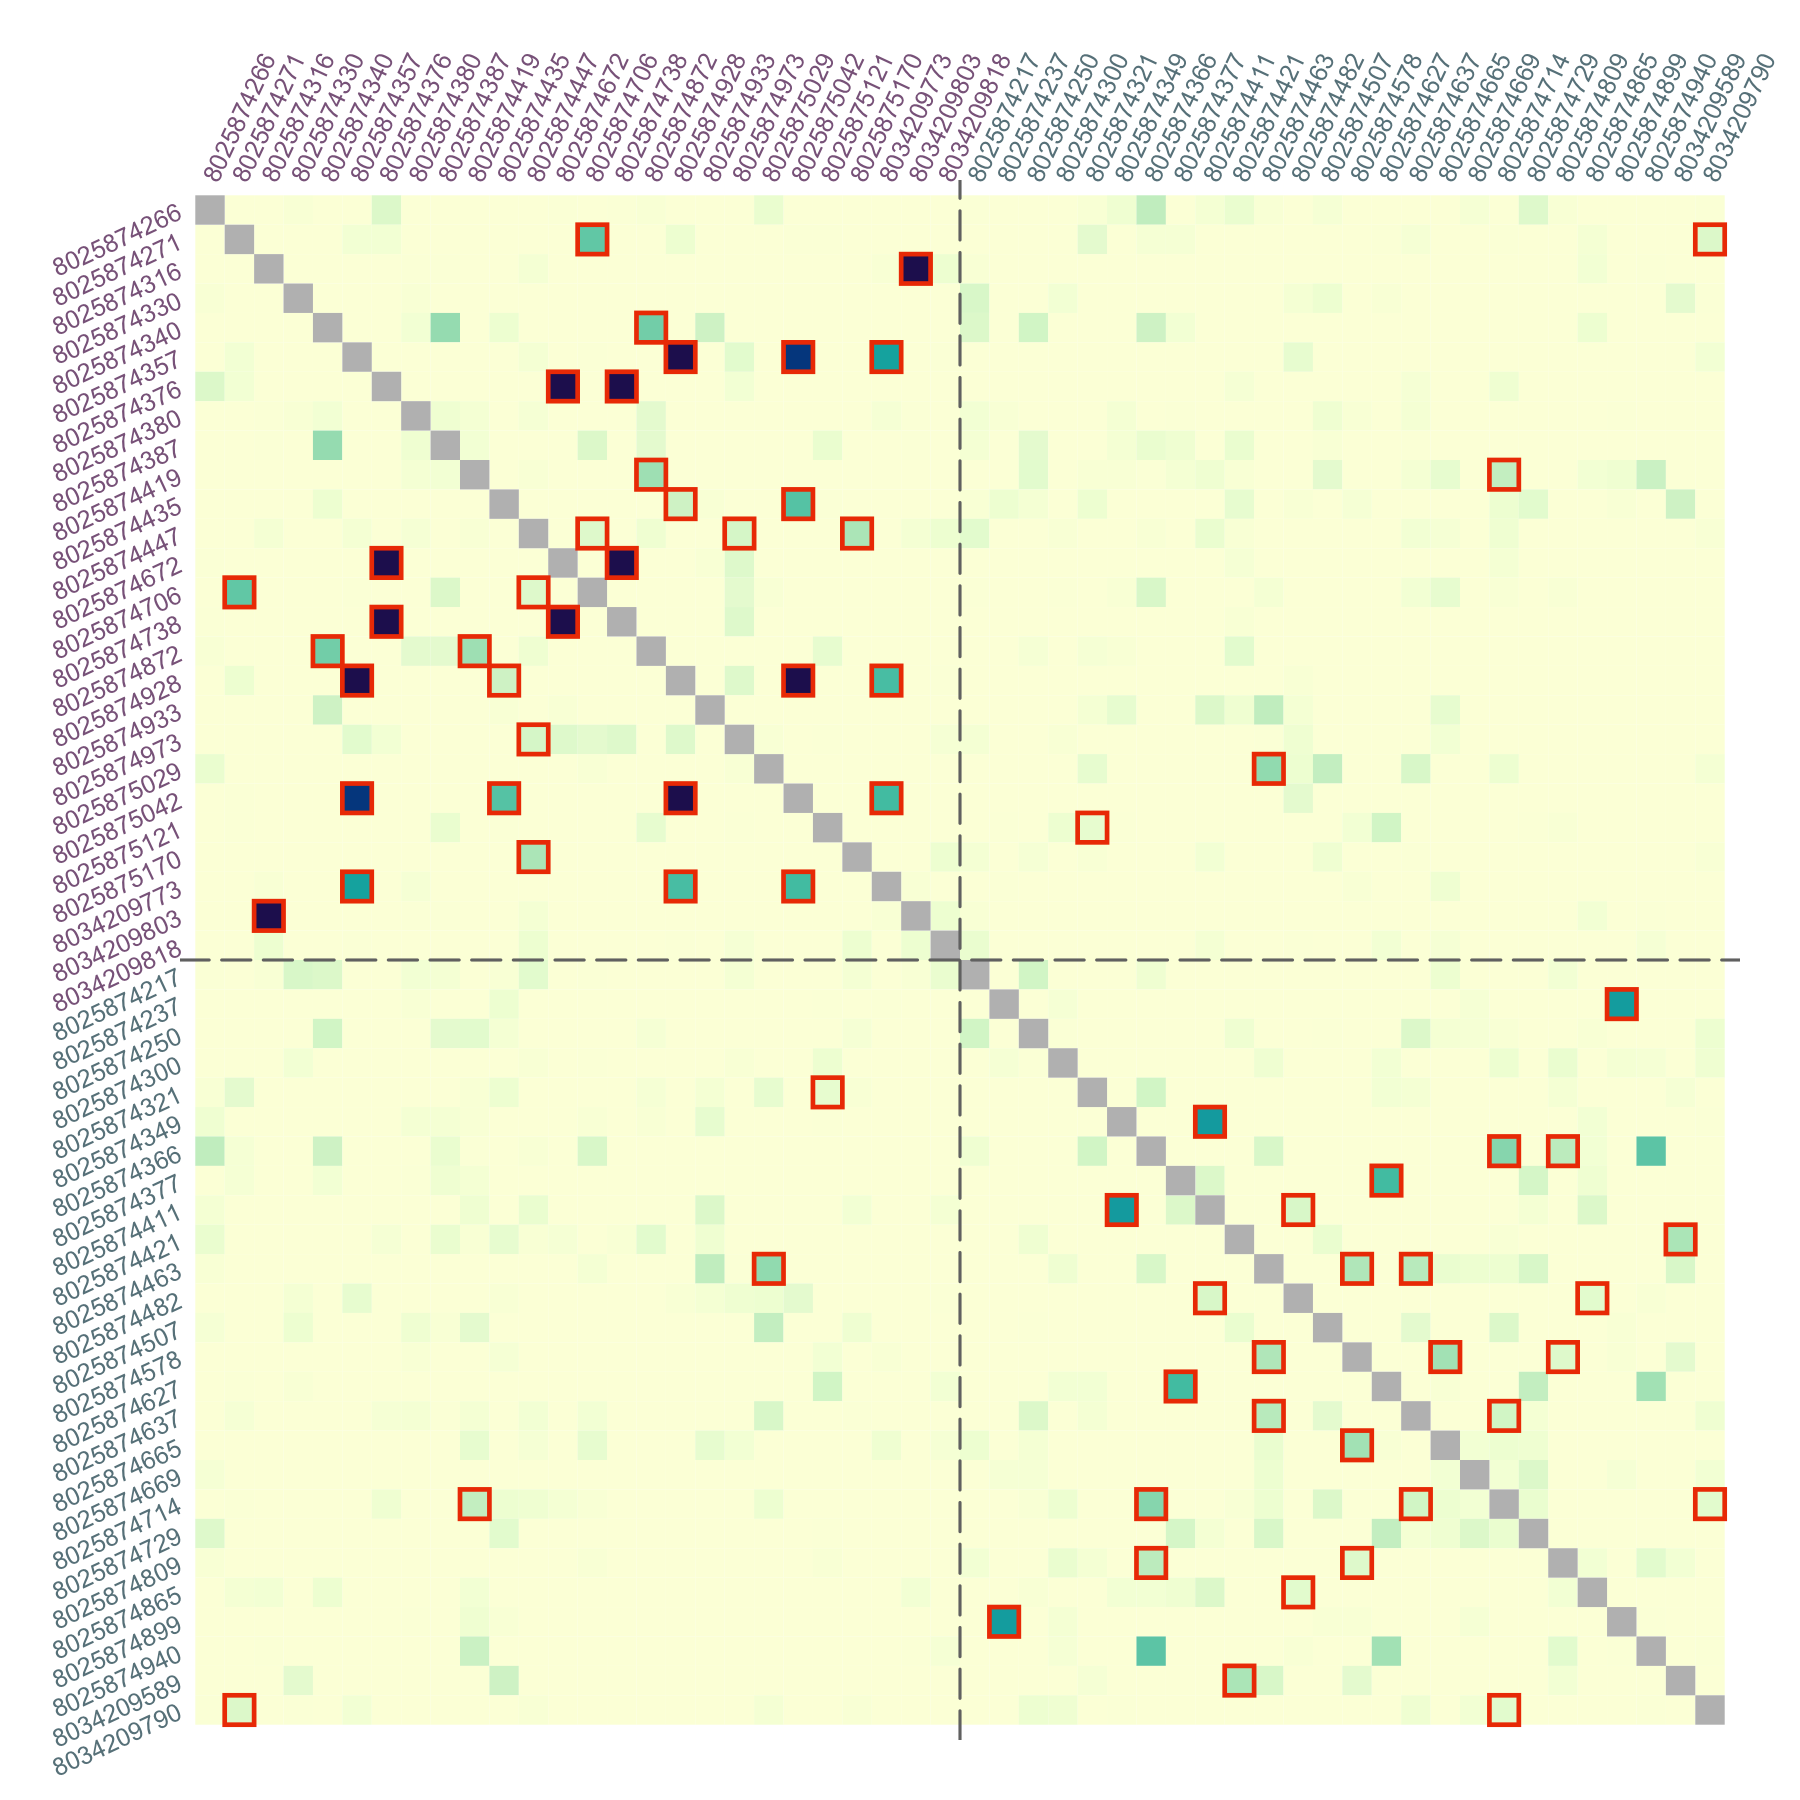
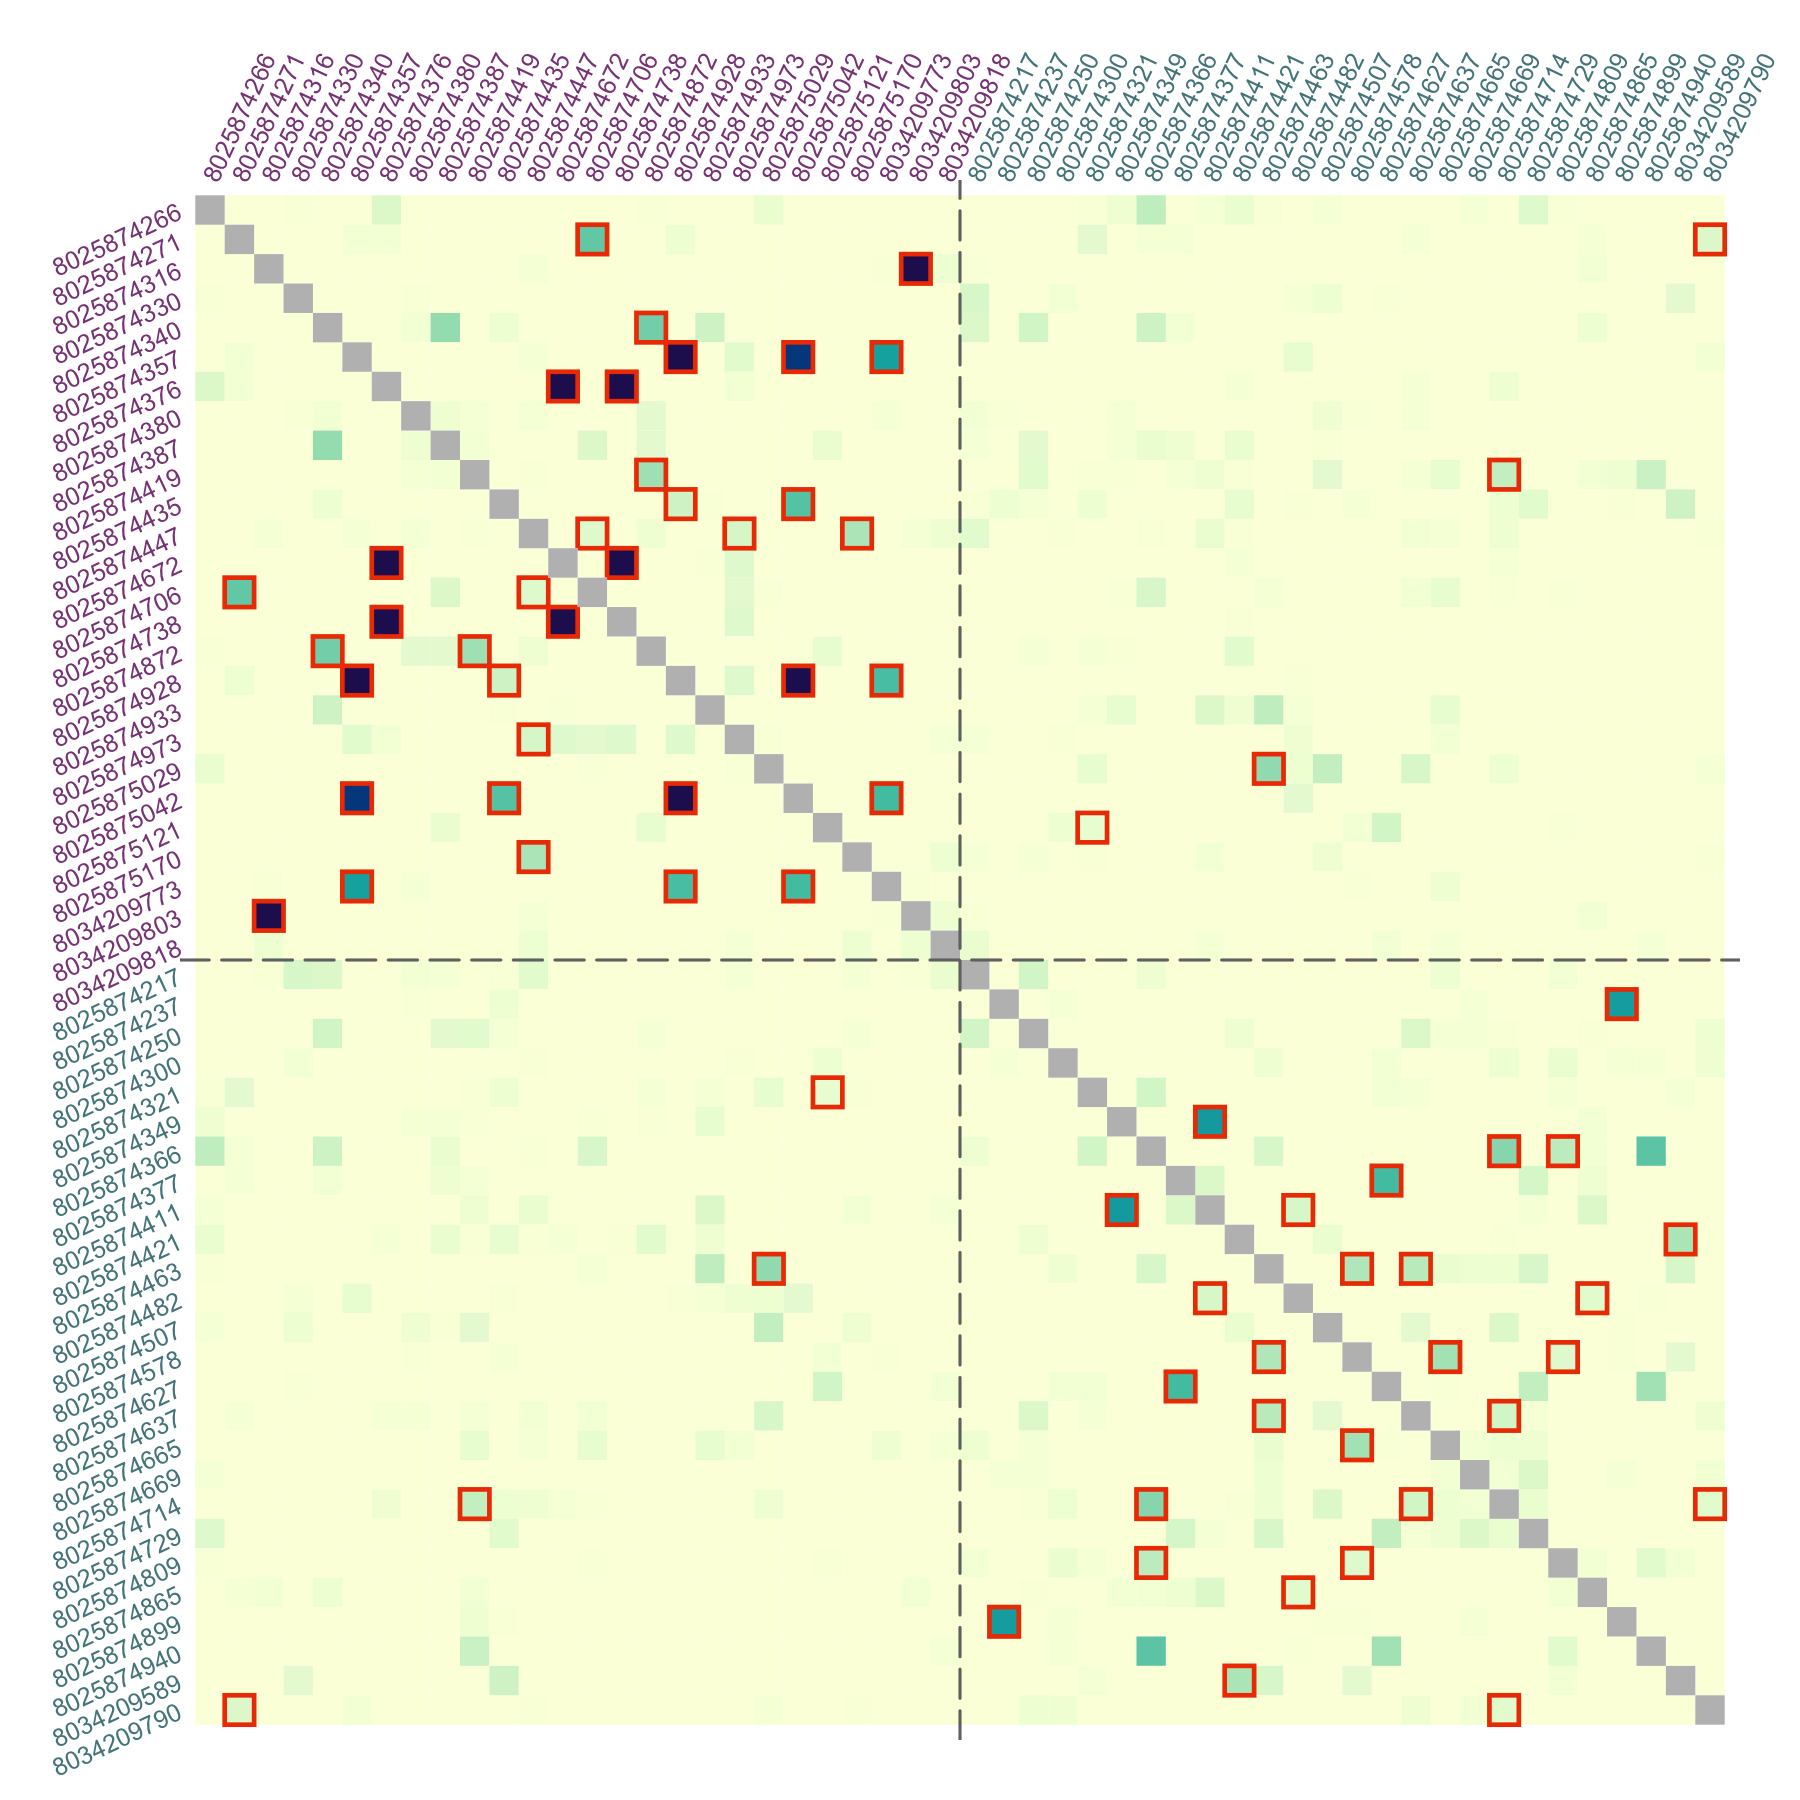
amplify signif

Changed region(s): [[0.1244, 0.0311, 0.56, 0.0933], [0.0311, 0.1244, 0.0933, 0.56]]

diff --git a/README.md b/README.md
@@ -211,14 +211,14 @@ par(mar = c(3, 3, 1, 1))
 alpha <- 0.05                          # significance level                    
 dmat <- dres0[, , "estimate"]
 # create symmetric matrix
-dmat[upper.tri(dmat)] <- t(dmat)[upper.tri(t(dmat))]  
-# determine significant, reverse columns for upper triangle
-isig <- which(dres0[, , "p_value"] <= alpha, arr.ind = TRUE)[, 2:1] 
-plotRel(dmat, isig = isig, draw_diag = TRUE, lwd_diag = 0.5, idlab = TRUE, 
+dmat <- mixMat(dmat, dmat)
+# determine significant, highlight them in the upper triangle
+sig <- dres0[, , "p_value"] <= alpha
+plotRel(dmat, sig = t(sig), draw_diag = TRUE, lwd_diag = 0.5, idlab = TRUE, 
         col_id = c(3:4)[factor(meta$province)]) 
 ```
 
-![](man/figures/README-unnamed-chunk-15-1.png)<!-- -->
+![](man/figures/README-unnamed-chunk-27-1.png)<!-- -->
 
 For the sorted samples:
 
@@ -226,16 +226,40 @@ For the sorted samples:
 par(mar = c(1, 3, 3, 1))
 nsmp  <- length(dsmp)
 atsep <- cumsum(nsite)[-length(nsite)]
-isig  <- which(dres[, , "p_value"] <= alpha, arr.ind = TRUE)
 dmat  <- dres[, , "estimate"]
-dmat[upper.tri(dmat)] <- t(dmat)[upper.tri(t(dmat))] 
-col_id <- rep(c("plum4", "lightblue4"), nsite)
-plotRel(dmat, isig = rbind(isig, isig[, 2:1]), draw_diag = TRUE, alpha = alpha,
-        idlab = TRUE, side_id = c(2, 3), col_id = col_id, srt_id = c(25, 65))
+dmat  <- mixMat(dmat, dmat)
+sig   <- dres[, , "p_value"] <= alpha
+col_id <- rep(c("orchid4", "cadetblue4"), nsite)
+plotRel(dmat, sig = mixMat(sig, sig), draw_diag = TRUE, idlab = TRUE, 
+        side_id = c(2, 3), col_id = col_id, srt_id = c(25, 65))
 abline(v = atsep, h = atsep, col = "gray45", lty = 5)
 ```
 
-![](man/figures/README-unnamed-chunk-16-1.png)<!-- -->
+![](man/figures/README-unnamed-chunk-28-1.png)<!-- -->
+
+When the number of samples is large, individual pairs can be hard to
+see. To make relatedness structure more visible, significantly related
+pairs can be “amplified”, or made larger:
+
+``` r
+par(mfrow = c(1, 4), mar = c(0.5, 0.5, 0.5, 0.5))
+sig_hi <- dres_hi[, , "p_value"] <= alpha
+sigsym <- mixMat(sig_hi, sig_hi)
+plotRel(dmat, sig = sigsym, draw_diag = TRUE, lwd_sig = 0)  
+abline(v = atsep, h = atsep, col = "gray45", lty = 5)       # no highlighting
+plotRel(dmat, sig = sigsym, draw_diag = TRUE, lwd_sig = 2)  
+abline(v = atsep, h = atsep, col = "gray45", lty = 5)       # outline
+plotRel(dmat, sig = sigsym, draw_diag = TRUE, border_sig = NA, lwd_sig = 1.5)
+abline(v = atsep, h = atsep, col = "gray45", lty = 5)       # amplification
+plotRel(dmat, sig = sigsym, draw_diag = TRUE, border_sig = NA, lwd_sig = 2.5)
+abline(v = atsep, h = atsep, col = "gray45", lty = 5)       # more amplification
+```
+
+![](man/figures/README-unnamed-chunk-29-1.png)<!-- -->
+
+``` r
+par(pardef)
+```
 
 For these symmetric distance measures, one of the triangles can be used
 to display other relevant information, such as p-values, geographic
@@ -247,11 +271,10 @@ par(mfrow = c(1, 2), mar = c(1, 0, 1, 0.2))
 plotRel(dres, draw_diag = TRUE, alpha = alpha)
 mtext("p-values", 3, 0.2)
 # p-values for upper triangle
-pmat <- matrix(NA, length(dsmp), length(dsmp))
-pmat[upper.tri(pmat)] <- t(log(dres[, , "p_value"]))[upper.tri(pmat)]
+pmat <- t(log(dres[, , "p_value"]))
 pmat[pmat == -Inf] <- min(pmat[is.finite(pmat)])
 plotRel(pmat, rlim = NULL, draw_diag = TRUE, col = hcl.colors(101, "Red-Purple"), 
-        sig = FALSE, add = TRUE, col_diag = "white", border_diag = "gray45")
+        add = TRUE, col_diag = "white", border_diag = "gray45")
 abline(v = atsep, h = atsep, col = "gray45", lty = 5)
 
 # number of non-missing loci for upper triangle
@@ -267,11 +290,11 @@ par(mar = c(1, 0.2, 1, 0))
 plotRel(dres, draw_diag = TRUE, alpha = alpha)
 mtext("number of loci", 3, 0.2)
 coln <- hcl.colors(diff(nrng)*2.4, "Purple-Blue", rev = TRUE)[1:(diff(nrng) + 1)]
-plotRel(nmat, rlim = NA, col = coln, add = TRUE, 
-        draw_diag = TRUE, col_diag = "gray45", border_diag = "white")
+plotRel(nmat, rlim = NA, col = coln, add = TRUE, draw_diag = TRUE, 
+        col_diag = "gray45", border_diag = "white")
 ```
 
-![](man/figures/README-unnamed-chunk-17-1.png)<!-- -->
+![](man/figures/README-unnamed-chunk-30-1.png)<!-- -->
 
 ``` r
 par(pardef)
@@ -285,8 +308,8 @@ significance level $\alpha = 0.05$):
 ``` r
 layout(matrix(1:2, 1), width = c(7, 1))
 par(mar = c(1, 1, 2, 1))
-isig_hi <- which(dres_hi[, , "p_value"] <= alpha, arr.ind = TRUE)
-plotRel(dmat, draw_diag = TRUE, isig = rbind(isig, isig_hi[, 2:1]))
+sig_hi <- dres_hi[, , "p_value"] <= alpha  #*** out here, not in vignette!!!
+plotRel(dmat, sig = mixMat(sig, sig_hi), draw_diag = TRUE)
 atclin <- cumsum(nsite) - nsite/2
 abline(v = atsep, h = atsep, col = "gray45", lty = 5)
 mtext(provinces, side = 3, at = atclin, line = 0.2)
@@ -295,7 +318,7 @@ par(mar = c(1, 0, 2, 3))
 plotColorbar()
 ```
 
-![](man/figures/README-unnamed-chunk-18-1.png)<!-- -->
+![](man/figures/README-unnamed-chunk-31-1.png)<!-- -->
 
 ``` r
 par(pardef)
@@ -321,7 +344,7 @@ ncol <- 301
 lines(c(0, ncol, ncol, 0, 0), c(0, 0, 1, 1, 0), col = "gray")
 ```
 
-![](man/figures/README-unnamed-chunk-19-1.png)<!-- -->
+![](man/figures/README-unnamed-chunk-32-1.png)<!-- -->
 
 ``` r
 par(pardef)
@@ -344,12 +367,14 @@ revals <- mapply(generateReval, 1:5, nr = c(1e3, 1e2, 32, 16, 12))
 ```
 
 ``` r
-sig1 <- sig2 <- vector("list", nrow(isig))
-for (i in 1:nrow(isig)) {
+isig <- which(sig, arr.ind = TRUE)
+nsig <- nrow(isig)
+sig1 <- sig2 <- vector("list", nsig)
+for (i in 1:nsig) {
   sig1[[i]] <- ibdEstM(dsmp[isig[i, ]], coi[isig[i, ]], afreq, Mmax = 5, 
                        equalr = FALSE, reval = revals)
 }
-for (i in 1:nrow(isig)) {
+for (i in 1:nsig) {
   sig2[[i]] <- ibdEstM(dsmp[isig[i, ]], coi[isig[i, ]], afreq, equalr = TRUE)
 }
 M1      <- sapply(sig1, function(r) sum(r > 0))  
@@ -367,11 +392,11 @@ Create a list of significant pairs:
 
 ``` r
 samples <- names(dsmp)
-sig <- as.data.frame(isig, row.names = FALSE)
-sig[c("id1", "id2")]         <- list(samples[isig[, 1]], samples[isig[, 2]])
-sig[c("M1", "M2")]           <- list(M1, M2)
-sig[c("rtotal1", "rtotal2")] <- list(round(rtotal1, 3), round(rtotal2, 3))
-head(sig)
+dfsig <- as.data.frame(isig, row.names = FALSE)
+dfsig[c("id1", "id2")]         <- list(samples[isig[, 1]], samples[isig[, 2]])
+dfsig[c("M1", "M2")]           <- list(M1, M2)
+dfsig[c("rtotal1", "rtotal2")] <- list(round(rtotal1, 3), round(rtotal2, 3))
+head(dfsig)
 #>   row col        id1        id2 M1 M2 rtotal1 rtotal2
 #> 1  14   2 8025874706 8025874271  1  1   0.411   0.411
 #> 2  52   2 8034209790 8025874271  1  1   0.133   0.133
@@ -429,7 +454,7 @@ text(mean(CI), yCI + 0.05*diff(llrng), "confidence interval", col = cols[3])
 text(res2$rhat - 0.025, yLR, "MLE", col = cols[3], srt = 90)
 ```
 
-![](man/figures/README-unnamed-chunk-24-1.png)<!-- -->
+![](man/figures/README-unnamed-chunk-37-1.png)<!-- -->
 
 ``` r
 par(pardef)

diff --git a/NEWS.md b/NEWS.md
@@ -1,3 +1,10 @@
+# dcifer 1.5.0
+
+- New: a function `mixMat()` that combines two triangular matrices into one square matrix (useful for plotting).
+-  Changes to `plotRel()` function:
+  * Highlighted (statistically significant) entries are now specified by a logical square matrix 
+  * These entries can be either outlined in a different color or "amplified" (made larger than other entries), which is useful for large datasets
+
 # dcifer 1.4.0
 
 - Added: one-sided (one-tailed) tests for functions `ibdPair()`, `ibdDat()`, and `ibdEstM()`. The argument `side` indicates if a one- or two-sided test is performed and the side for the one-sided test. 
